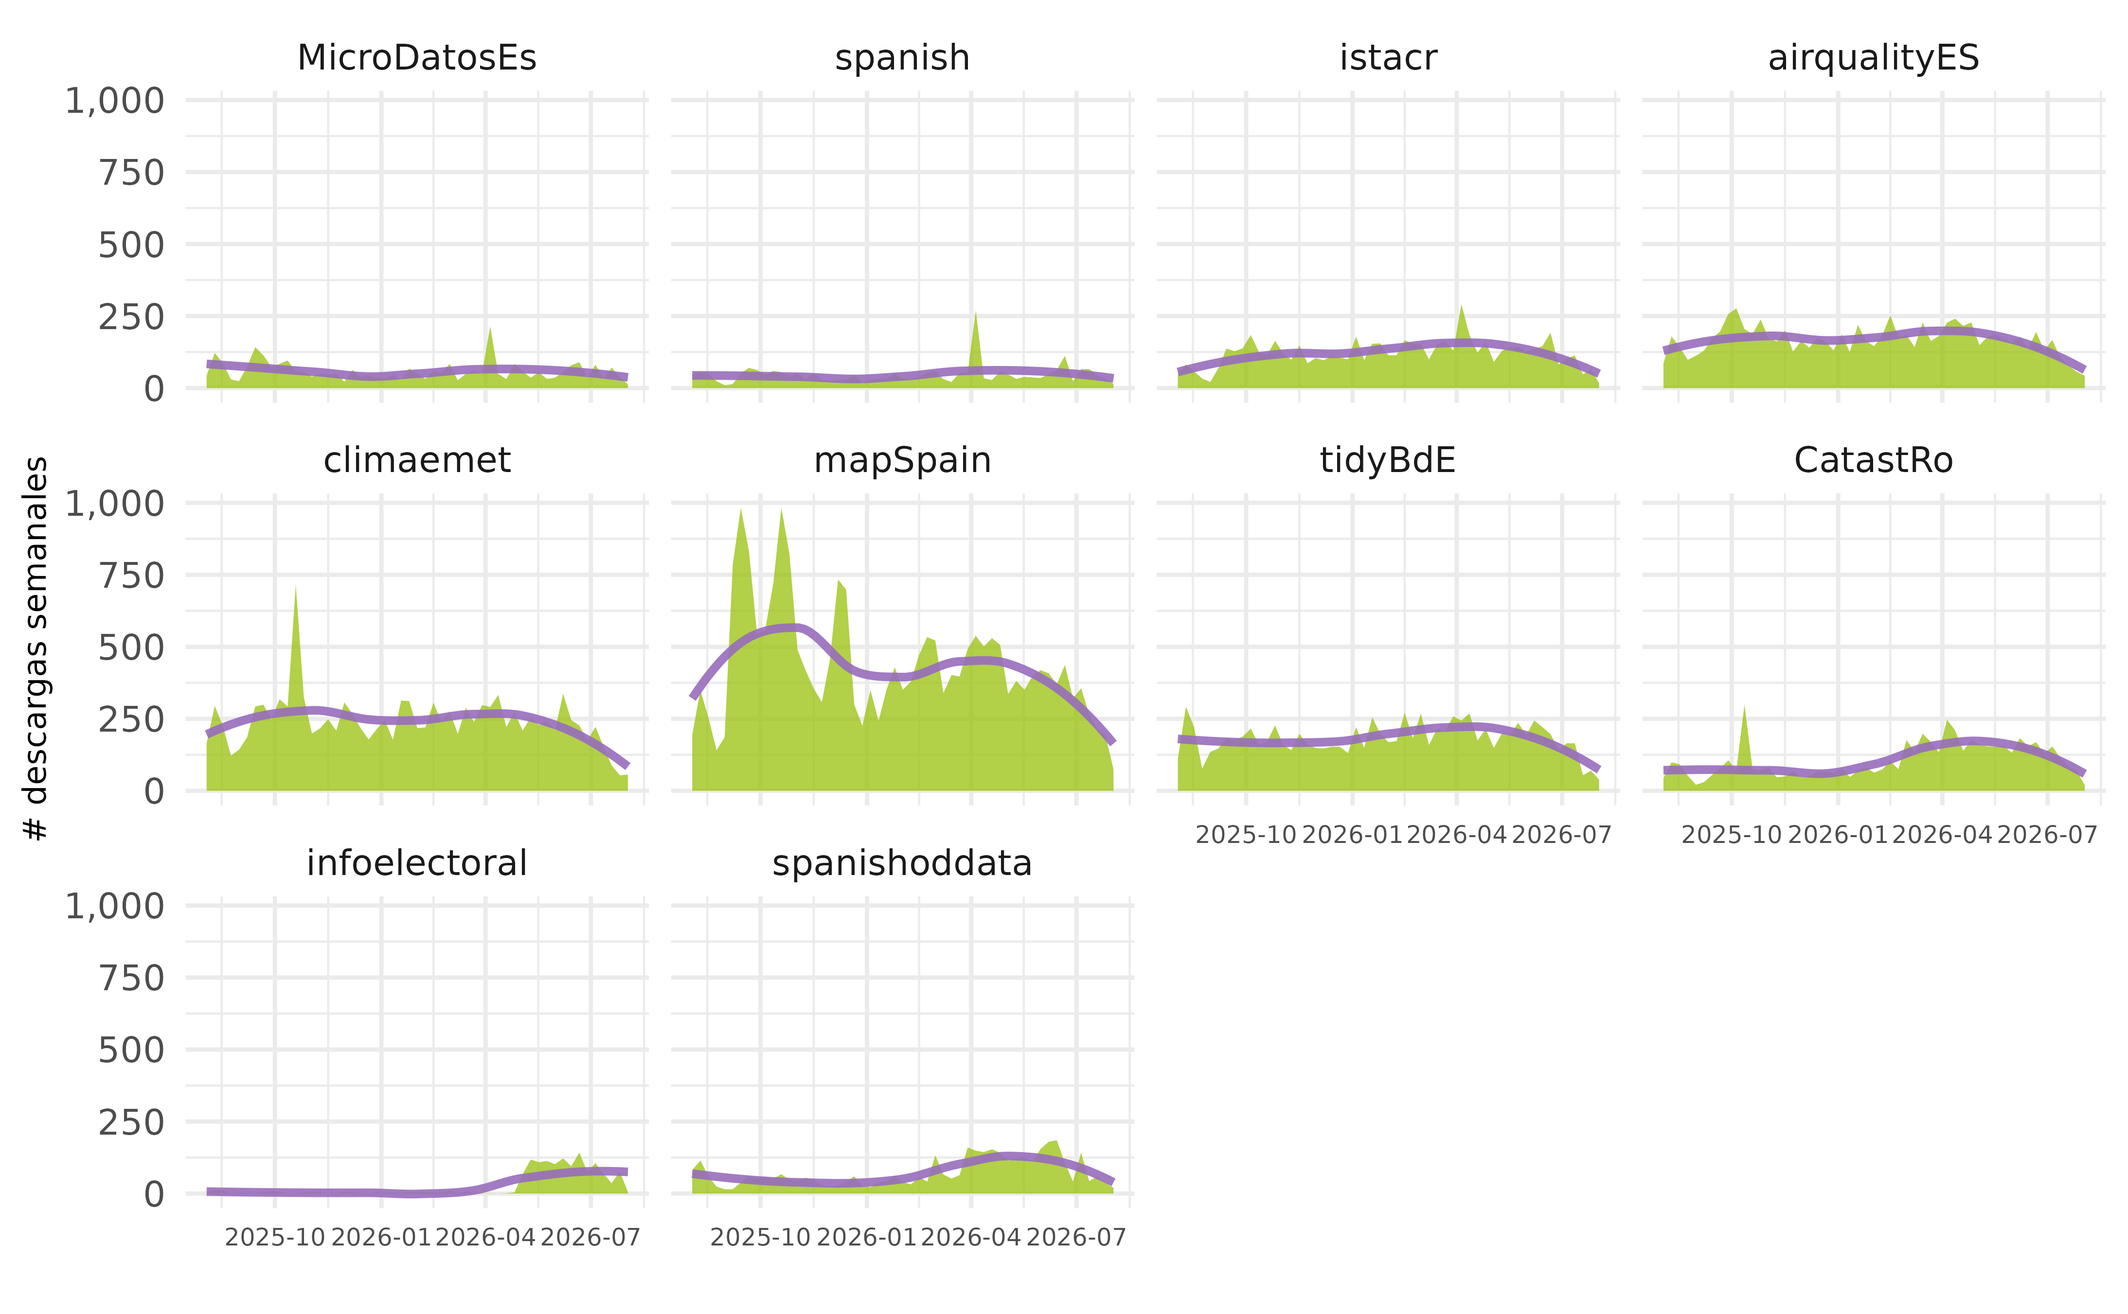
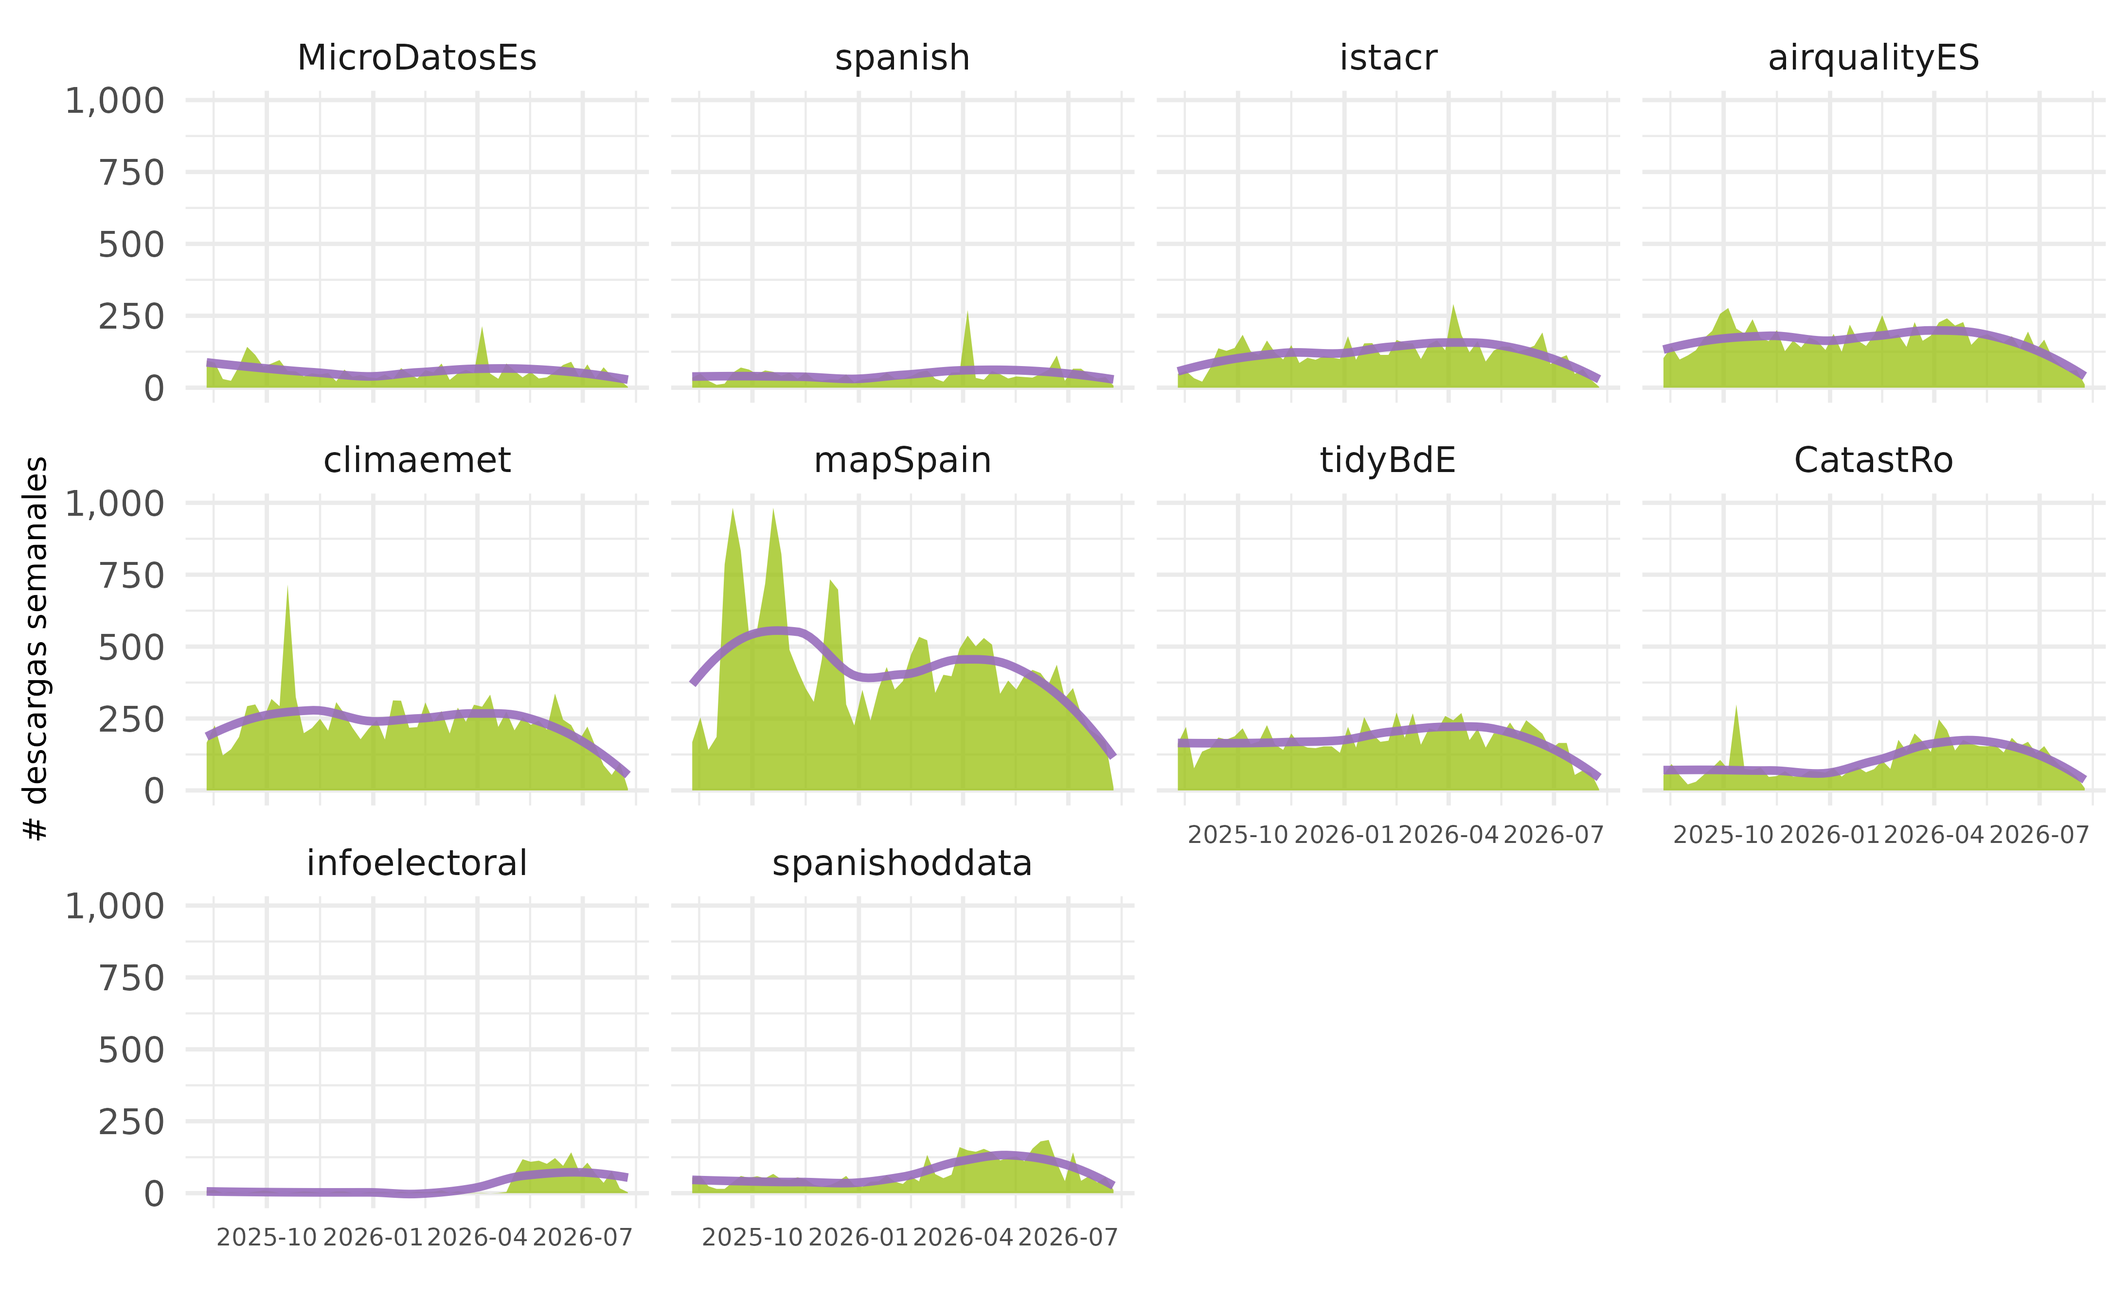
Built site for rostemplate@0.2.0.9000: 231f7ae

diff --git a/articles/descargas.html b/articles/descargas.html
@@ -89,7 +89,7 @@
 
     
     
-<p><em>Fecha de actualización: 30 jul 2026</em></p>
+<p><em>Fecha de actualización: 06 ago 2026</em></p>
 <div class="section level2">
 <h2 id="en-cran">En CRAN<a class="anchor" aria-label="anchor" href="#en-cran"></a>
 </h2>
@@ -108,7 +108,7 @@
 <h3 id="datos-sobre-descargas">Datos sobre descargas<a class="anchor" aria-label="anchor" href="#datos-sobre-descargas"></a>
 </h3>
 <div class="reactable html-widget html-fill-item" id="cran-dwn" style="width:auto;height:auto;"></div>
-<script type="application/json" data-for="cran-dwn">{"x":{"tag":{"name":"Reactable","attribs":{"data":{"paquete":["mapSpain","climaemet","tidyBdE","airqualityES","CatastRo","MicroDatosEs","istacr","spanishoddata","spanish","infoelectoral"],"en CRAN desde":["2020-11-30","2020-07-07","2021-04-08","2020-02-29","2022-02-28","2013-10-22","2019-05-03","2024-12-18","2018-01-08","2024-03-11"],"Versión en CRAN":["2026-06-17","2026-06-03","2026-07-06","2020-02-29","2026-06-03","2023-11-24","2026-07-09","2026-06-07","2019-05-10","2026-04-29"],"media diaria":[40.1,25.6,22.8,21.6,14.3,12,11.7,9.9,8.9,6],"último dia":[29,22,6,8,4,6,2,9,7,1],"última semana":[152,84,79,79,51,39,55,32,30,39],"último mes":[1019,538,458,419,427,228,331,283,212,278],"último año":[23202,12839,9597,8913,5650,3136,6402,3890,2468,1365]},"columns":[{"id":"paquete","name":"paquete","type":"character","minWidth":150,"vAlign":"center","footerStyle":{"fontWeight":"bold"},"cell":[{"name":"div","attribs":{},"children":[{"name":"div","attribs":{"style":{"fontWeight":"bold"}},"children":[{"name":"a","attribs":{"href":"https://CRAN.R-project.org/package=mapSpain","target":"_blank"},"children":["mapSpain"]}]},{"name":"div","attribs":{"style":{"fontSize":"75%"}},"children":[{"name":"img","attribs":{"src":"https://badges.cranchecks.info/worst/mapSpain.svg","alt":"mapSpain"},"children":[]}]}]},{"name":"div","attribs":{},"children":[{"name":"div","attribs":{"style":{"fontWeight":"bold"}},"children":[{"name":"a","attribs":{"href":"https://CRAN.R-project.org/package=climaemet","target":"_blank"},"children":["climaemet"]}]},{"name":"div","attribs":{"style":{"fontSize":"75%"}},"children":[{"name":"img","attribs":{"src":"https://badges.cranchecks.info/worst/climaemet.svg","alt":"climaemet"},"children":[]}]}]},{"name":"div","attribs":{},"children":[{"name":"div","attribs":{"style":{"fontWeight":"bold"}},"children":[{"name":"a","attribs":{"href":"https://CRAN.R-project.org/package=tidyBdE","target":"_blank"},"children":["tidyBdE"]}]},{"name":"div","attribs":{"style":{"fontSize":"75%"}},"children":[{"name":"img","attribs":{"src":"https://badges.cranchecks.info/worst/tidyBdE.svg","alt":"tidyBdE"},"children":[]}]}]},{"name":"div","attribs":{},"children":[{"name":"div","attribs":{"style":{"fontWeight":"bold"}},"children":[{"name":"a","attribs":{"href":"https://CRAN.R-project.org/package=airqualityES","target":"_blank"},"children":["airqualityES"]}]},{"name":"div","attribs":{"style":{"fontSize":"75%"}},"children":[{"name":"img","attribs":{"src":"https://badges.cranchecks.info/worst/airqualityES.svg","alt":"airqualityES"},"children":[]}]}]},{"name":"div","attribs":{},"children":[{"name":"div","attribs":{"style":{"fontWeight":"bold"}},"children":[{"name":"a","attribs":{"href":"https://CRAN.R-project.org/package=CatastRo","target":"_blank"},"children":["CatastRo"]}]},{"name":"div","attribs":{"style":{"fontSize":"75%"}},"children":[{"name":"img","attribs":{"src":"https://badges.cranchecks.info/worst/CatastRo.svg","alt":"CatastRo"},"children":[]}]}]},{"name":"div","attribs":{},"children":[{"name":"div","attribs":{"style":{"fontWeight":"bold"}},"children":[{"name":"a","attribs":{"href":"https://CRAN.R-project.org/package=MicroDatosEs","target":"_blank"},"children":["MicroDatosEs"]}]},{"name":"div","attribs":{"style":{"fontSize":"75%"}},"children":[{"name":"img","attribs":{"src":"https://badges.cranchecks.info/worst/MicroDatosEs.svg","alt":"MicroDatosEs"},"children":[]}]}]},{"name":"div","attribs":{},"children":[{"name":"div","attribs":{"style":{"fontWeight":"bold"}},"children":[{"name":"a","attribs":{"href":"https://CRAN.R-project.org/package=istacr","target":"_blank"},"children":["istacr"]}]},{"name":"div","attribs":{"style":{"fontSize":"75%"}},"children":[{"name":"img","attribs":{"src":"https://badges.cranchecks.info/worst/istacr.svg","alt":"istacr"},"children":[]}]}]},{"name":"div","attribs":{},"children":[{"name":"div","attribs":{"style":{"fontWeight":"bold"}},"children":[{"name":"a","attribs":{"href":"https://CRAN.R-project.org/package=spanishoddata","target":"_blank"},"children":["spanishoddata"]}]},{"name":"div","attribs":{"style":{"fontSize":"75%"}},"children":[{"name":"img","attribs":{"src":"https://badges.cranchecks.info/worst/spanishoddata.svg","alt":"spanishoddata"},"children":[]}]}]},{"name":"div","attribs":{},"children":[{"name":"div","attribs":{"style":{"fontWeight":"bold"}},"children":[{"name":"a","attribs":{"href":"https://CRAN.R-project.org/package=spanish","target":"_blank"},"children":["spanish"]}]},{"name":"div","attribs":{"style":{"fontSize":"75%"}},"children":[{"name":"img","attribs":{"src":"https://badges.cranchecks.info/worst/spanish.svg","alt":"spanish"},"children":[]}]}]},{"name":"div","attribs":{},"children":[{"name":"div","attribs":{"style":{"fontWeight":"bold"}},"children":[{"name":"a","attribs":{"href":"https://CRAN.R-project.org/package=infoelectoral","target":"_blank"},"children":["infoelectoral"]}]},{"name":"div","attribs":{"style":{"fontSize":"75%"}},"children":[{"name":"img","attribs":{"src":"https://badges.cranchecks.info/worst/infoelectoral.svg","alt":"infoelectoral"},"children":[]}]}]}],"rowHeader":true,"align":"left","sticky":"left"},{"id":"en CRAN desde","name":"en CRAN desde","type":"Date","minWidth":150,"vAlign":"center","footerStyle":{"fontWeight":"bold"}},{"id":"Versión en CRAN","name":"Versión en CRAN","type":"Date","minWidth":150,"vAlign":"center","footerStyle":{"fontWeight":"bold"}},{"id":"media diaria","name":"media diaria","type":"numeric","footer":"172,9","minWidth":150,"vAlign":"center","footerStyle":{"fontWeight":"bold"},"format":{"cell":{"separators":true},"aggregated":{"separators":true}}},{"id":"último dia","name":"último dia","type":"numeric","footer":"94","minWidth":150,"vAlign":"center","footerStyle":{"fontWeight":"bold"},"format":{"cell":{"separators":true},"aggregated":{"separators":true}}},{"id":"última semana","name":"última semana","type":"numeric","footer":"640","minWidth":150,"vAlign":"center","footerStyle":{"fontWeight":"bold"},"format":{"cell":{"separators":true},"aggregated":{"separators":true}}},{"id":"último mes","name":"último mes","type":"numeric","footer":"4.193","minWidth":150,"vAlign":"center","footerStyle":{"fontWeight":"bold"},"format":{"cell":{"separators":true},"aggregated":{"separators":true}}},{"id":"último año","name":"último año","type":"numeric","footer":"77.462","minWidth":150,"vAlign":"center","footerStyle":{"fontWeight":"bold"},"format":{"cell":{"separators":true},"aggregated":{"separators":true}}}],"filterable":true,"searchable":true,"showPageSizeOptions":true,"paginationType":"jump","striped":true,"language":{"sortLabel":"Ordena {name}","filterPlaceholder":"","filterLabel":"Filtro {name}","searchPlaceholder":"Búsqueda","searchLabel":"Búsqueda","noData":"Sin resultados","pageNext":"Siguiente","pagePrevious":"Anterior","pageNumbers":"{page} de {pages}","pageInfo":"{rowStart}–{rowEnd} de {rows} registros","pageSizeOptions":"Mostrando {rows}","pageNextLabel":"Siguiente página","pagePreviousLabel":"Página anterior","pageNumberLabel":"Página {page}","pageJumpLabel":"Ir a página","pageSizeOptionsLabel":"Registros por página"},"elementId":"cran-dwn","dataKey":"c78e10e6c3f3180f0c2a1ebdd177b3da"},"children":[]},"class":"reactR_markup"},"evals":[],"jsHooks":[]}</script>
+<script type="application/json" data-for="cran-dwn">{"x":{"tag":{"name":"Reactable","attribs":{"data":{"paquete":["mapSpain","climaemet","tidyBdE","airqualityES","CatastRo","MicroDatosEs","istacr","spanishoddata","spanish","infoelectoral"],"en CRAN desde":["2020-11-30","2020-07-07","2021-04-08","2020-02-29","2022-02-28","2013-10-22","2019-05-03","2024-12-18","2018-01-08","2024-03-11"],"Versión en CRAN":["2026-06-17","2026-06-03","2026-07-06","2020-02-29","2026-06-03","2023-11-24","2026-07-09","2026-06-07","2019-05-10","2026-04-29"],"media diaria":[40,25.5,22.7,21.6,14.2,11.9,11.7,9.8,8.9,5.9],"último dia":[0,0,0,0,0,0,0,0,0,0],"última semana":[65,30,18,21,23,12,8,36,21,8],"último mes":[764,316,286,259,268,168,211,203,175,163],"último año":[22933,12590,9384,8781,5594,3080,6329,3796,2430,1372]},"columns":[{"id":"paquete","name":"paquete","type":"character","minWidth":150,"vAlign":"center","footerStyle":{"fontWeight":"bold"},"cell":[{"name":"div","attribs":{},"children":[{"name":"div","attribs":{"style":{"fontWeight":"bold"}},"children":[{"name":"a","attribs":{"href":"https://CRAN.R-project.org/package=mapSpain","target":"_blank"},"children":["mapSpain"]}]},{"name":"div","attribs":{"style":{"fontSize":"75%"}},"children":[{"name":"img","attribs":{"src":"https://badges.cranchecks.info/worst/mapSpain.svg","alt":"mapSpain"},"children":[]}]}]},{"name":"div","attribs":{},"children":[{"name":"div","attribs":{"style":{"fontWeight":"bold"}},"children":[{"name":"a","attribs":{"href":"https://CRAN.R-project.org/package=climaemet","target":"_blank"},"children":["climaemet"]}]},{"name":"div","attribs":{"style":{"fontSize":"75%"}},"children":[{"name":"img","attribs":{"src":"https://badges.cranchecks.info/worst/climaemet.svg","alt":"climaemet"},"children":[]}]}]},{"name":"div","attribs":{},"children":[{"name":"div","attribs":{"style":{"fontWeight":"bold"}},"children":[{"name":"a","attribs":{"href":"https://CRAN.R-project.org/package=tidyBdE","target":"_blank"},"children":["tidyBdE"]}]},{"name":"div","attribs":{"style":{"fontSize":"75%"}},"children":[{"name":"img","attribs":{"src":"https://badges.cranchecks.info/worst/tidyBdE.svg","alt":"tidyBdE"},"children":[]}]}]},{"name":"div","attribs":{},"children":[{"name":"div","attribs":{"style":{"fontWeight":"bold"}},"children":[{"name":"a","attribs":{"href":"https://CRAN.R-project.org/package=airqualityES","target":"_blank"},"children":["airqualityES"]}]},{"name":"div","attribs":{"style":{"fontSize":"75%"}},"children":[{"name":"img","attribs":{"src":"https://badges.cranchecks.info/worst/airqualityES.svg","alt":"airqualityES"},"children":[]}]}]},{"name":"div","attribs":{},"children":[{"name":"div","attribs":{"style":{"fontWeight":"bold"}},"children":[{"name":"a","attribs":{"href":"https://CRAN.R-project.org/package=CatastRo","target":"_blank"},"children":["CatastRo"]}]},{"name":"div","attribs":{"style":{"fontSize":"75%"}},"children":[{"name":"img","attribs":{"src":"https://badges.cranchecks.info/worst/CatastRo.svg","alt":"CatastRo"},"children":[]}]}]},{"name":"div","attribs":{},"children":[{"name":"div","attribs":{"style":{"fontWeight":"bold"}},"children":[{"name":"a","attribs":{"href":"https://CRAN.R-project.org/package=MicroDatosEs","target":"_blank"},"children":["MicroDatosEs"]}]},{"name":"div","attribs":{"style":{"fontSize":"75%"}},"children":[{"name":"img","attribs":{"src":"https://badges.cranchecks.info/worst/MicroDatosEs.svg","alt":"MicroDatosEs"},"children":[]}]}]},{"name":"div","attribs":{},"children":[{"name":"div","attribs":{"style":{"fontWeight":"bold"}},"children":[{"name":"a","attribs":{"href":"https://CRAN.R-project.org/package=istacr","target":"_blank"},"children":["istacr"]}]},{"name":"div","attribs":{"style":{"fontSize":"75%"}},"children":[{"name":"img","attribs":{"src":"https://badges.cranchecks.info/worst/istacr.svg","alt":"istacr"},"children":[]}]}]},{"name":"div","attribs":{},"children":[{"name":"div","attribs":{"style":{"fontWeight":"bold"}},"children":[{"name":"a","attribs":{"href":"https://CRAN.R-project.org/package=spanishoddata","target":"_blank"},"children":["spanishoddata"]}]},{"name":"div","attribs":{"style":{"fontSize":"75%"}},"children":[{"name":"img","attribs":{"src":"https://badges.cranchecks.info/worst/spanishoddata.svg","alt":"spanishoddata"},"children":[]}]}]},{"name":"div","attribs":{},"children":[{"name":"div","attribs":{"style":{"fontWeight":"bold"}},"children":[{"name":"a","attribs":{"href":"https://CRAN.R-project.org/package=spanish","target":"_blank"},"children":["spanish"]}]},{"name":"div","attribs":{"style":{"fontSize":"75%"}},"children":[{"name":"img","attribs":{"src":"https://badges.cranchecks.info/worst/spanish.svg","alt":"spanish"},"children":[]}]}]},{"name":"div","attribs":{},"children":[{"name":"div","attribs":{"style":{"fontWeight":"bold"}},"children":[{"name":"a","attribs":{"href":"https://CRAN.R-project.org/package=infoelectoral","target":"_blank"},"children":["infoelectoral"]}]},{"name":"div","attribs":{"style":{"fontSize":"75%"}},"children":[{"name":"img","attribs":{"src":"https://badges.cranchecks.info/worst/infoelectoral.svg","alt":"infoelectoral"},"children":[]}]}]}],"rowHeader":true,"align":"left","sticky":"left"},{"id":"en CRAN desde","name":"en CRAN desde","type":"Date","minWidth":150,"vAlign":"center","footerStyle":{"fontWeight":"bold"}},{"id":"Versión en CRAN","name":"Versión en CRAN","type":"Date","minWidth":150,"vAlign":"center","footerStyle":{"fontWeight":"bold"}},{"id":"media diaria","name":"media diaria","type":"numeric","footer":"172,2","minWidth":150,"vAlign":"center","footerStyle":{"fontWeight":"bold"},"format":{"cell":{"separators":true},"aggregated":{"separators":true}}},{"id":"último dia","name":"último dia","type":"numeric","footer":"0","minWidth":150,"vAlign":"center","footerStyle":{"fontWeight":"bold"},"format":{"cell":{"separators":true},"aggregated":{"separators":true}}},{"id":"última semana","name":"última semana","type":"numeric","footer":"242","minWidth":150,"vAlign":"center","footerStyle":{"fontWeight":"bold"},"format":{"cell":{"separators":true},"aggregated":{"separators":true}}},{"id":"último mes","name":"último mes","type":"numeric","footer":"2.813","minWidth":150,"vAlign":"center","footerStyle":{"fontWeight":"bold"},"format":{"cell":{"separators":true},"aggregated":{"separators":true}}},{"id":"último año","name":"último año","type":"numeric","footer":"76.289","minWidth":150,"vAlign":"center","footerStyle":{"fontWeight":"bold"},"format":{"cell":{"separators":true},"aggregated":{"separators":true}}}],"filterable":true,"searchable":true,"showPageSizeOptions":true,"paginationType":"jump","striped":true,"language":{"sortLabel":"Ordena {name}","filterPlaceholder":"","filterLabel":"Filtro {name}","searchPlaceholder":"Búsqueda","searchLabel":"Búsqueda","noData":"Sin resultados","pageNext":"Siguiente","pagePrevious":"Anterior","pageNumbers":"{page} de {pages}","pageInfo":"{rowStart}–{rowEnd} de {rows} registros","pageSizeOptions":"Mostrando {rows}","pageNextLabel":"Siguiente página","pagePreviousLabel":"Página anterior","pageNumberLabel":"Página {page}","pageJumpLabel":"Ir a página","pageSizeOptionsLabel":"Registros por página"},"elementId":"cran-dwn","dataKey":"1a7172b5d6f41e30ebc0347eba5aa1d4"},"children":[]},"class":"reactR_markup"},"evals":[],"jsHooks":[]}</script>
 </div>
 </div>
 <div class="section level2">

diff --git a/articles/test/quarto-features.html b/articles/test/quarto-features.html
@@ -149,8 +149,8 @@
 </h2>
 <div class="cell">
 <div class="cell-output-display">
-<div class="visual_diff html-widget html-fill-item" id="htmlwidget-dc1b650fd0f92d1e52c9" style="width:100%;height:auto;"></div>
-<script type="application/json" data-for="htmlwidget-dc1b650fd0f92d1e52c9">{"x":{"old":"a\nb\nc\nd\ne\nf\ng\nh\ni\nj\nk\nl\nm\nn\no\np\nq\nr\ns\nt\nu\nv\nw\nx\ny\nz\n","new":"a\nb\nc\nd\ne\nf\ng\nh\ni\nl\nm\nn\no\np\nq\nr\ns\nt\nu\nv\nw\nx\ny\nz\n","filename":"a.txt","typediff":"text"},"evals":[],"jsHooks":[]}</script>
+<div class="visual_diff html-widget html-fill-item" id="htmlwidget-f4905171a9076a605751" style="width:100%;height:auto;"></div>
+<script type="application/json" data-for="htmlwidget-f4905171a9076a605751">{"x":{"old":"a\nb\nc\nd\ne\nf\ng\nh\ni\nj\nk\nl\nm\nn\no\np\nq\nr\ns\nt\nu\nv\nw\nx\ny\nz\n","new":"a\nb\nc\nd\ne\nf\ng\nh\ni\nl\nm\nn\no\np\nq\nr\ns\nt\nu\nv\nw\nx\ny\nz\n","filename":"a.txt","typediff":"text"},"evals":[],"jsHooks":[]}</script>
 </div>
 </div>
 </section><section class="level2"><h2 id="keyboard">Keyboard<a class="anchor" aria-label="anchor" href="#keyboard"></a>

diff --git a/articles/test/widgets.html b/articles/test/widgets.html
@@ -96,7 +96,7 @@
 </h2>
 <p>Test spacing above widget.</p>
 <div class="visual_diff html-widget html-fill-item" id="htmlwidget-ac96cb3ee4656e2e9ec3" style="width:100%;height:auto;"></div>
-<script type="application/json" data-for="htmlwidget-ac96cb3ee4656e2e9ec3">{"x":{"old":"a\nb\nc\nd\ne\nf\ng\nh\ni\nj\nk\nl\nm\nn\no\np\nq\nr\ns\nt\nu\nv\nw\nx\ny\nz\n","new":"a\nb\nc\nd\ne\nf\ng\nh\ni\nl\nm\nn\no\np\nq\nr\ns\nt\nu\nv\nw\nx\ny\nz\n","filename":"file1f104ae9b01c","typediff":"text"},"evals":[],"jsHooks":[]}</script><p>Test spacing below widget.</p>
+<script type="application/json" data-for="htmlwidget-ac96cb3ee4656e2e9ec3">{"x":{"old":"a\nb\nc\nd\ne\nf\ng\nh\ni\nj\nk\nl\nm\nn\no\np\nq\nr\ns\nt\nu\nv\nw\nx\ny\nz\n","new":"a\nb\nc\nd\ne\nf\ng\nh\ni\nl\nm\nn\no\np\nq\nr\ns\nt\nu\nv\nw\nx\ny\nz\n","filename":"file21a1354f4ec7","typediff":"text"},"evals":[],"jsHooks":[]}</script><p>Test spacing below widget.</p>
 </div>
   </main>
 </div>

diff --git a/articles/descargas.md b/articles/descargas.md
@@ -1,6 +1,6 @@
 # Descargas de paquetes de rOpenSpain
 
-*Fecha de actualización: 30 jul 2026*
+*Fecha de actualización: 06 ago 2026*
 
 ## En CRAN
 
